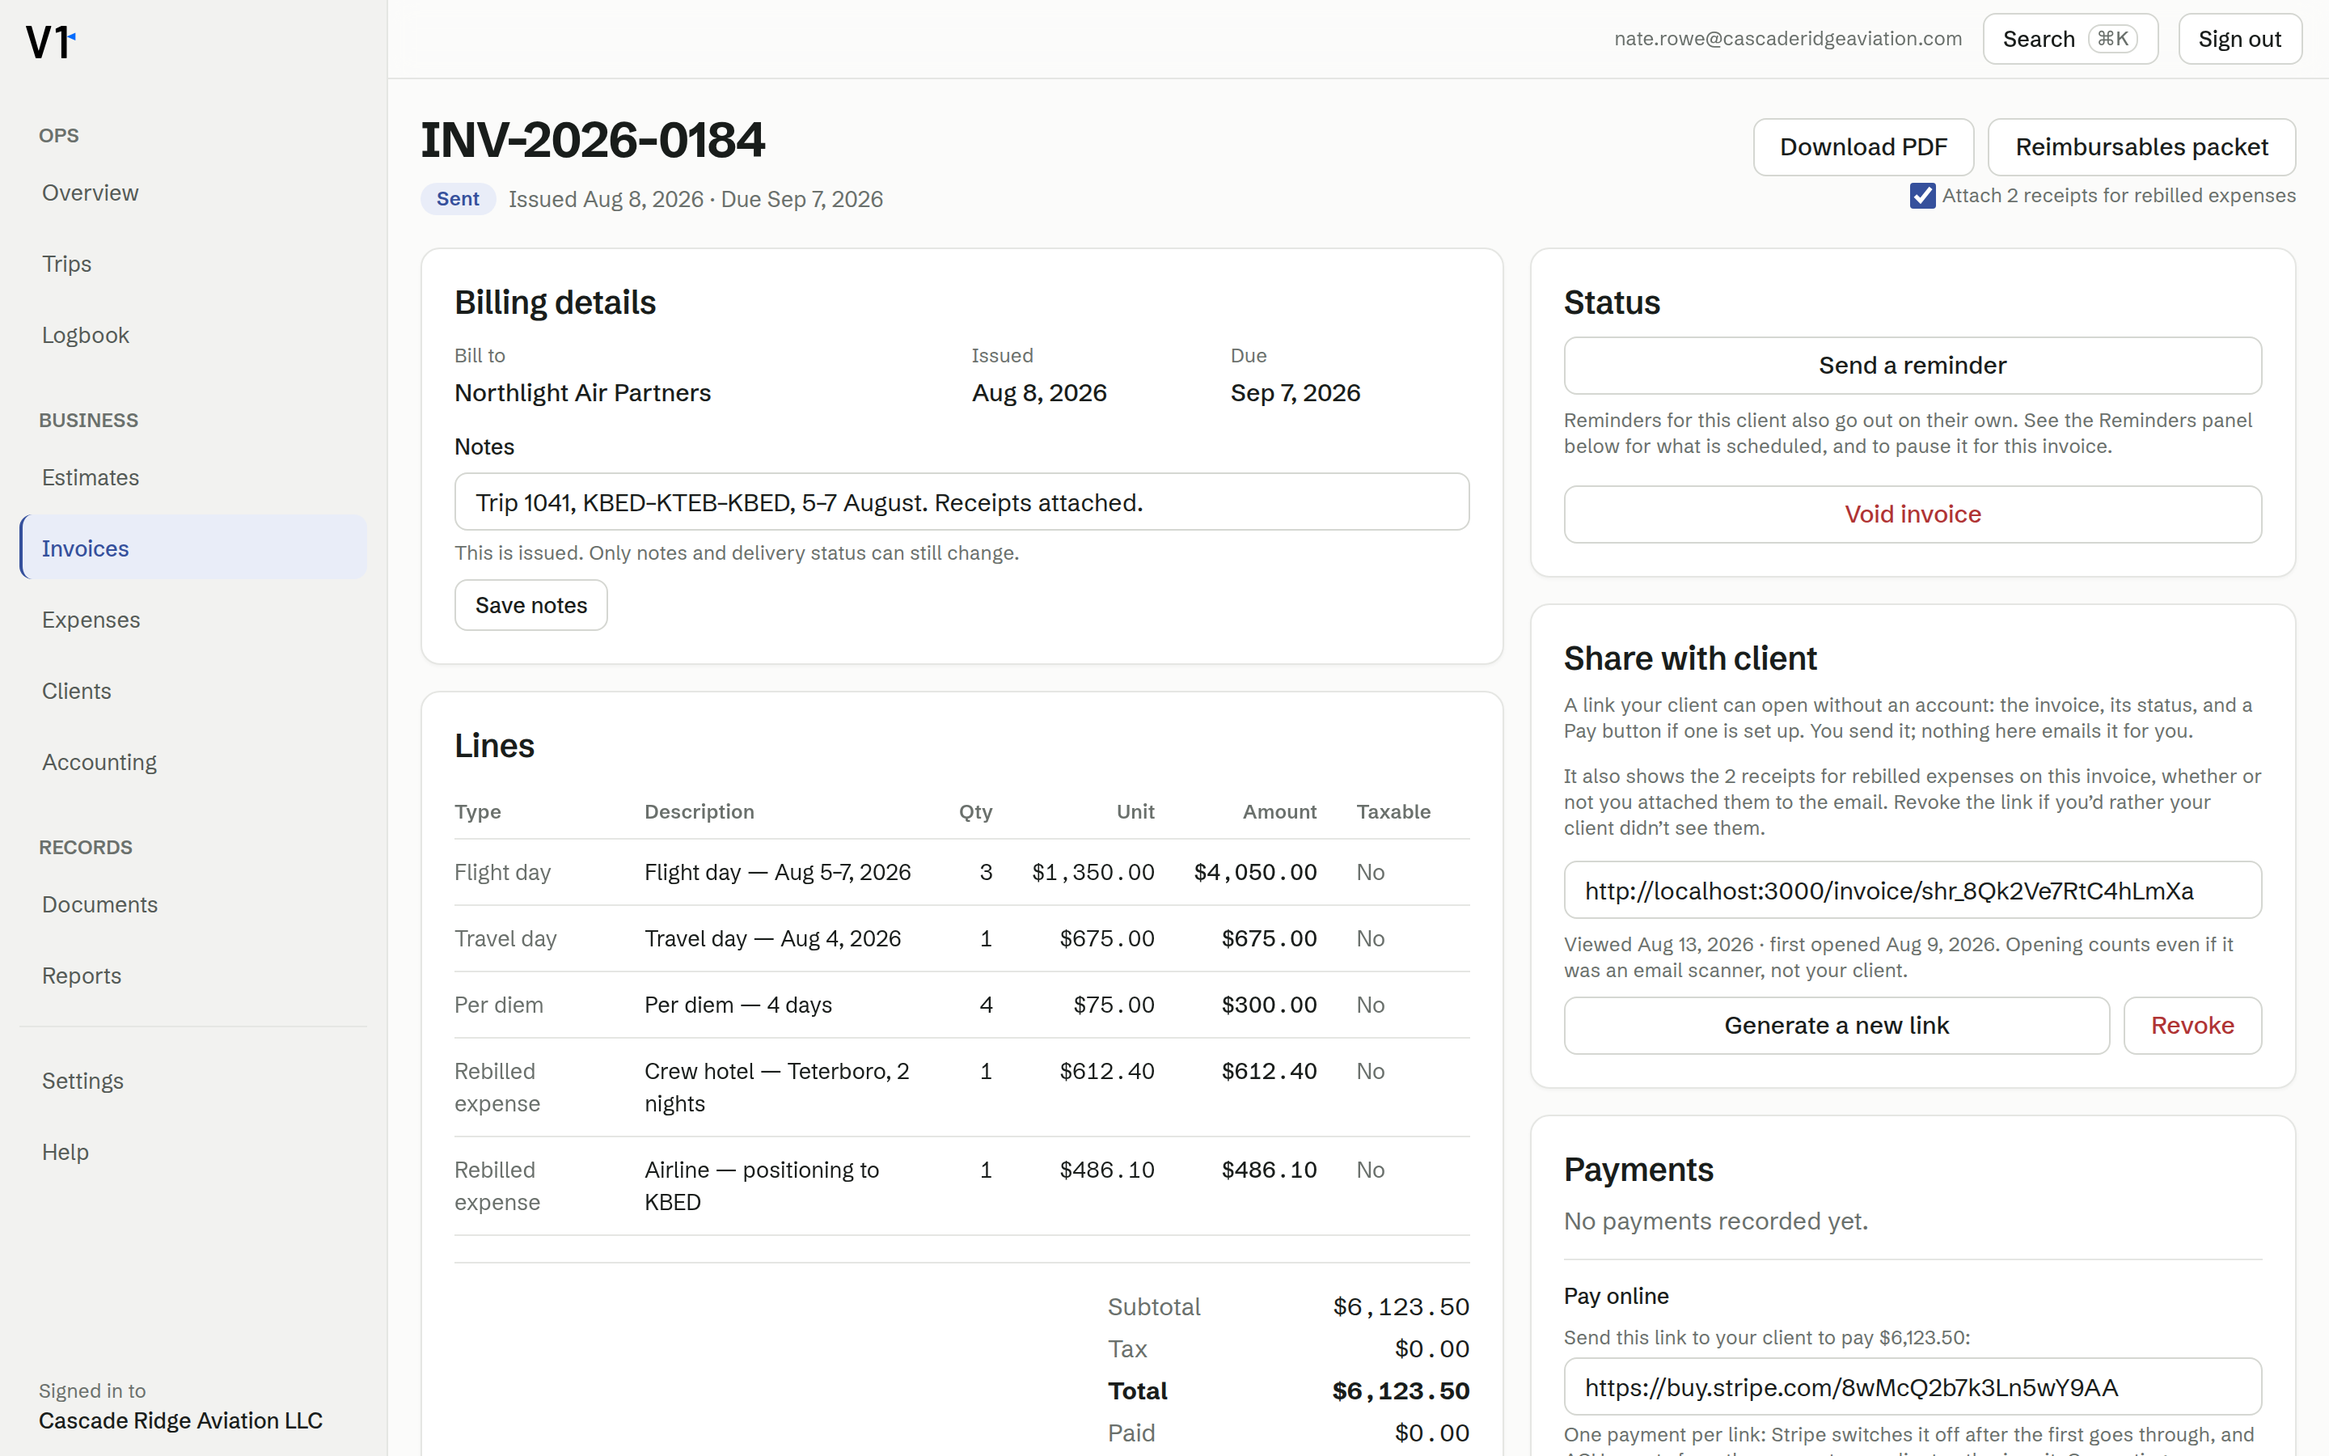
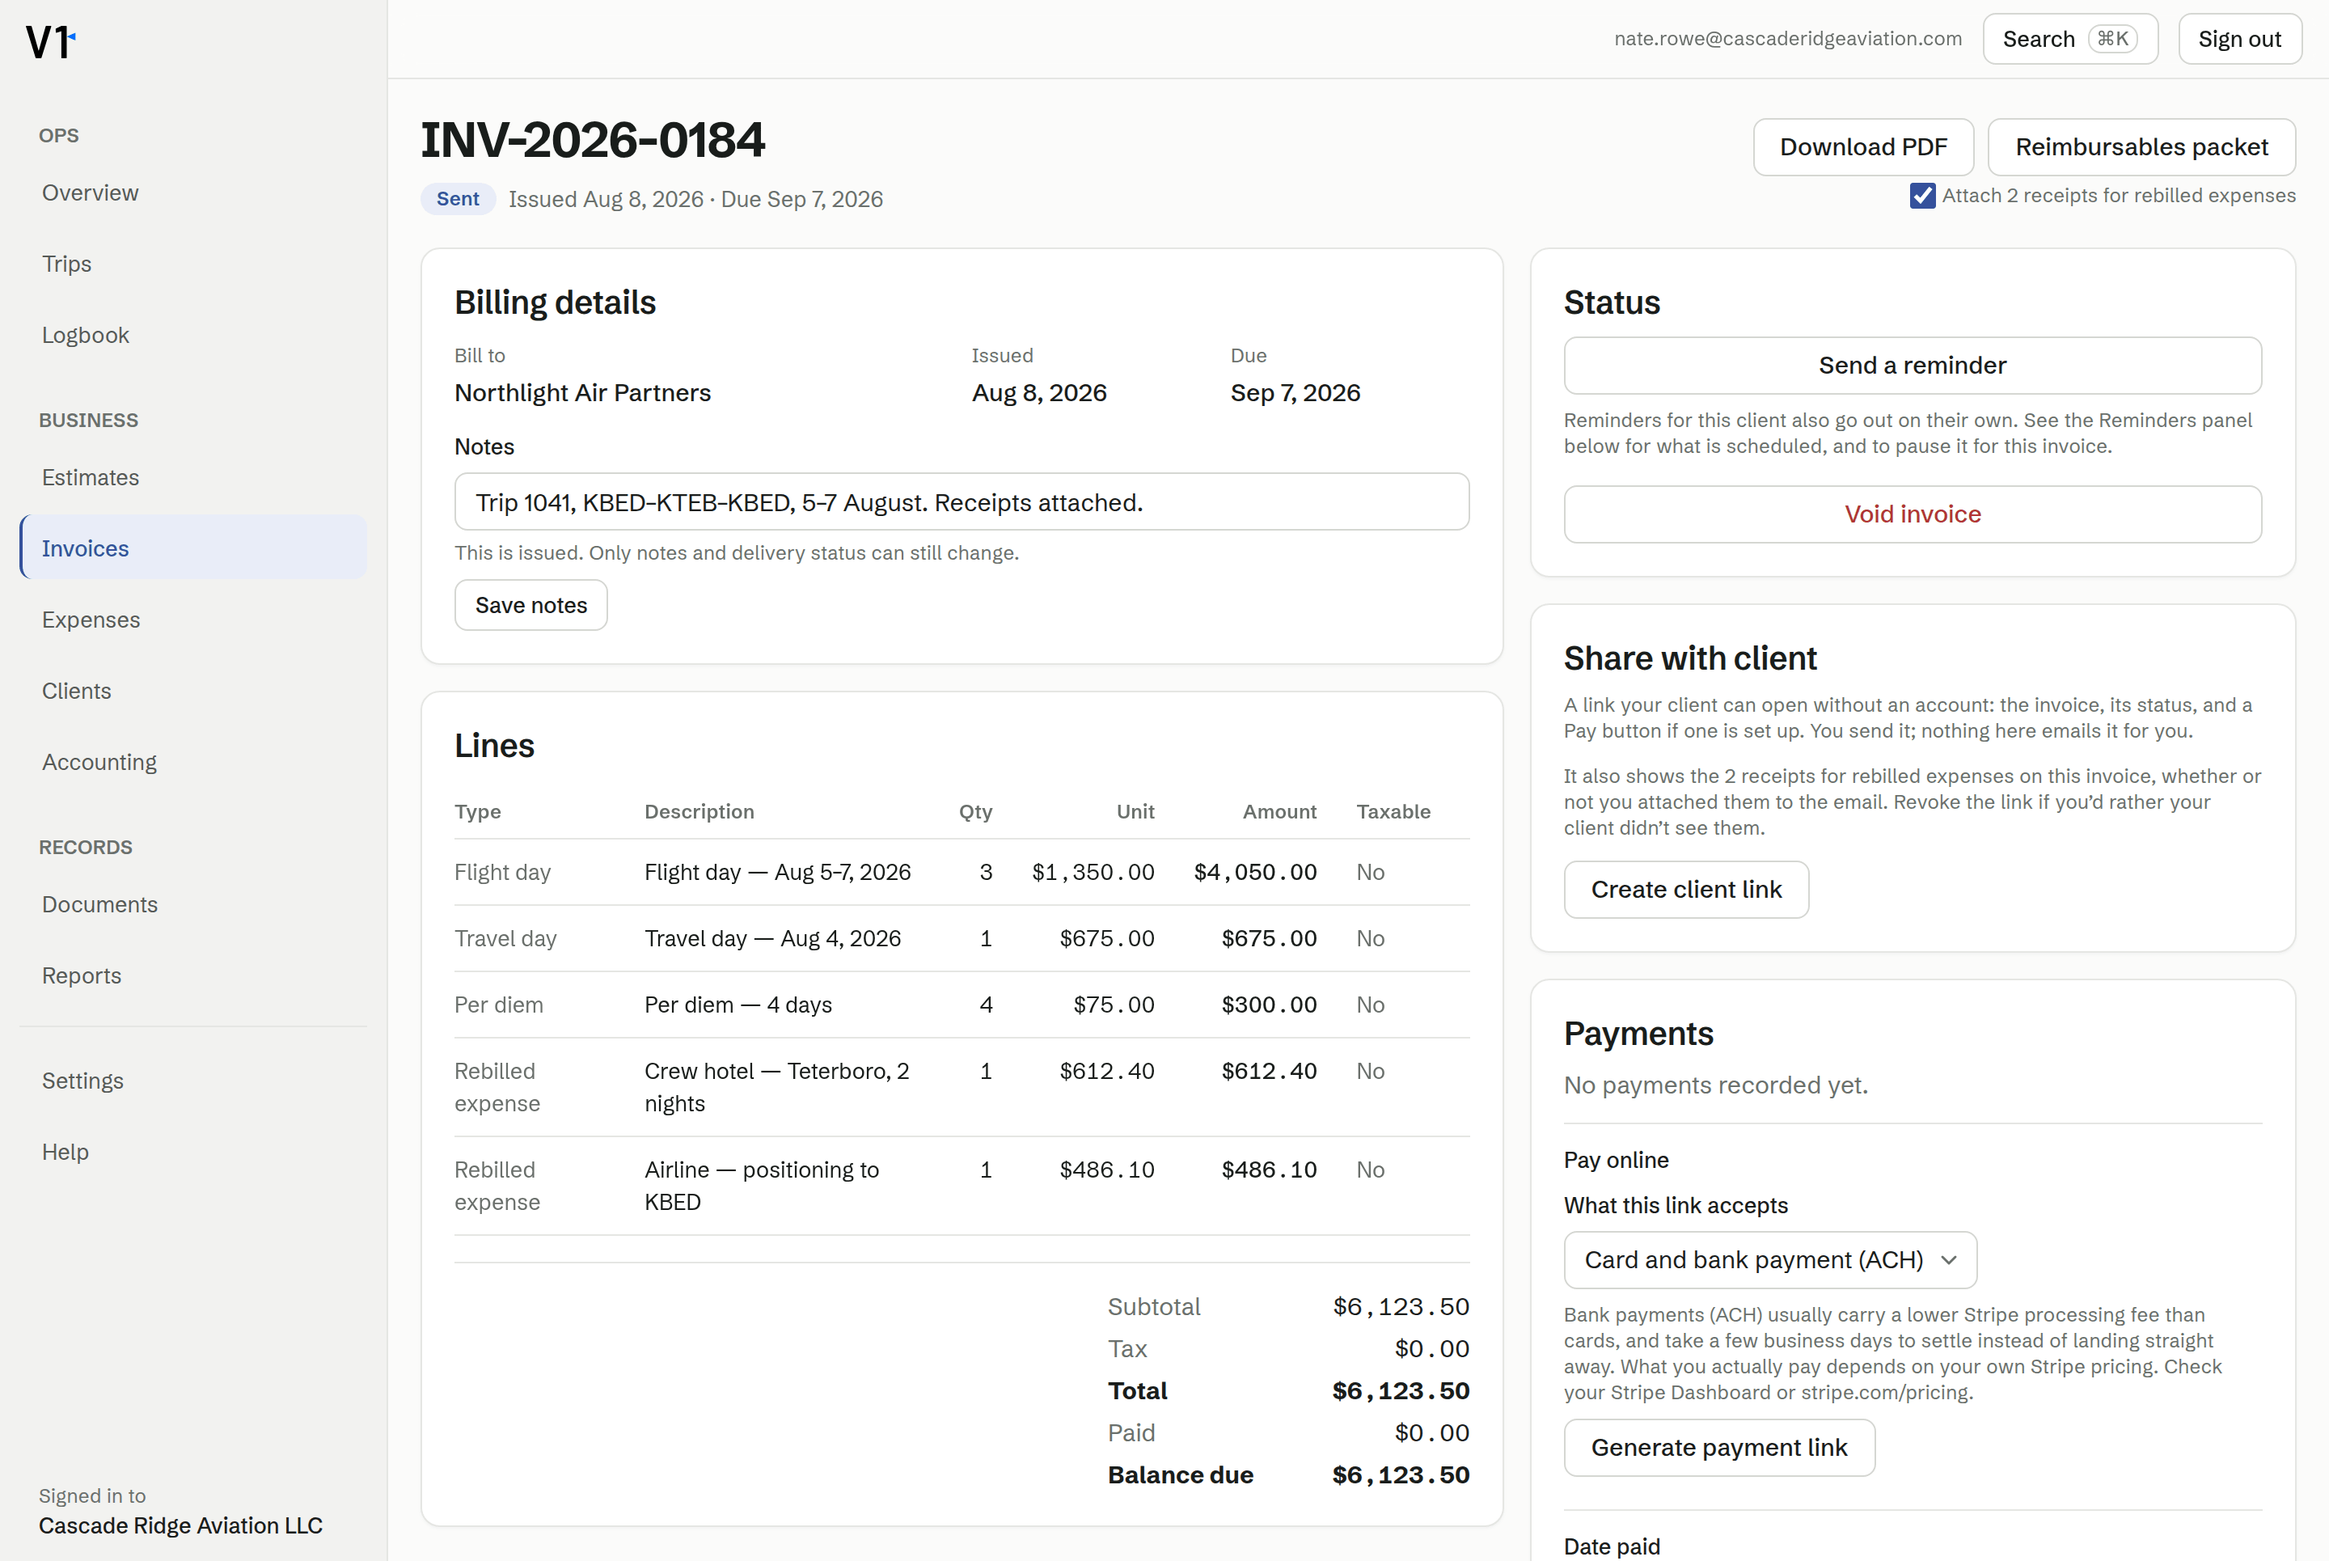
Screenshot harness: keep dev URLs and fabricated payment links out
Second checkpoint on the marketing shots. Two things the first captured
set got wrong, both caught by looking at the images rather than by any
check:

  - The invoice shot printed "http://localhost:3000/invoice/shr_…" in the
    share panel. SharePanel builds its URL from window.location.origin,
    which on a harness capture is the dev server. A dev URL in a marketing
    image reads as a broken product.

  - A fabricated Stripe payment link would have been worse: buy.stripe.com
    paths are opaque, so a plausible-looking invented one is a typeable
    link to somebody else's checkout, published on the public site.

Both panels now render in their pre-creation state — the control that
makes the link, rather than a link — which is a real state of an issued
invoice and the only one a screenshot can show honestly.

Capture heights retuned so each image ends on a panel boundary instead of
slicing a table row.

typecheck and tokens:verify clean. The landing-page integration is still
to come.

Claude-Session: https://claude.ai/code/session_01D5UhPyYv863wQDLJtvEgAt

diff --git a/app/(dev)/marketing-shots/invoice-screen.tsx b/app/(dev)/marketing-shots/invoice-screen.tsx
@@ -15,7 +15,6 @@ import {
   INVOICE_LINES,
   INVOICE_NUMBER,
   INVOICE_RECEIPT_COUNT,
-  INVOICE_SHARE,
   INVOICE_TOTALS,
 } from "./fixtures";
 
@@ -105,18 +104,28 @@ export default function InvoiceScreen() {
             automaticChase="live"
             hasDueDate
           />
-          <SharePanel
-            invoiceId={INVOICE_ID}
-            share={INVOICE_SHARE}
-            receiptCount={INVOICE_RECEIPT_COUNT}
-          />
+          {/* NO SHARE ROW AND NO PAYMENT LINK, DELIBERATELY — this is the
+              state of an issued invoice before either has been created,
+              and it is the only state of these two panels a screenshot can
+              show honestly.
+
+              SharePanel builds its URL from window.location.origin (see its
+              own comment on why), which on a harness capture is the dev
+              server — putting "http://localhost:3000/invoice/…" in a
+              marketing image. And a Stripe payment-link URL is an opaque
+              buy.stripe.com path; fabricating one would put a plausible,
+              typeable link to somebody else's checkout on the public site.
+              Neither is worth doctoring the picture for, and both panels
+              read perfectly well showing the control that creates the
+              thing rather than the thing. */}
+          <SharePanel invoiceId={INVOICE_ID} share={null} receiptCount={INVOICE_RECEIPT_COUNT} />
           <PaymentPanel
             invoiceId={INVOICE_ID}
             status="sent"
             payments={[]}
             connectAccountConnected
-            existingPaymentLinkUrl="https://buy.stripe.com/8wMcQ2b7k3Ln5wY9AA"
-            existingPaymentLinkAmountCents={INVOICE_TOTALS.balance_due_cents}
+            existingPaymentLinkUrl={null}
+            existingPaymentLinkAmountCents={null}
             balanceDueCents={INVOICE_TOTALS.balance_due_cents}
             defaultPaymentMethods="card_ach"
           />

diff --git a/app/(dev)/marketing-shots/fixtures.ts b/app/(dev)/marketing-shots/fixtures.ts
@@ -320,13 +320,6 @@ export const INVOICE_TOTALS: InvoiceTotalsView = {
 /** Two of the five lines are rebilled receipts, and both have a file. */
 export const INVOICE_RECEIPT_COUNT = 2;
 
-export const INVOICE_SHARE = {
-  token: "shr_8Qk2Ve7RtC4hLmXa",
-  revoked_at: null,
-  first_viewed_at: "2026-08-09T13:41:00.000Z",
-  last_viewed_at: "2026-08-13T08:26:00.000Z",
-};
-
 /* ── Logbook ────────────────────────────────────────────────────────── */
 
 /**
